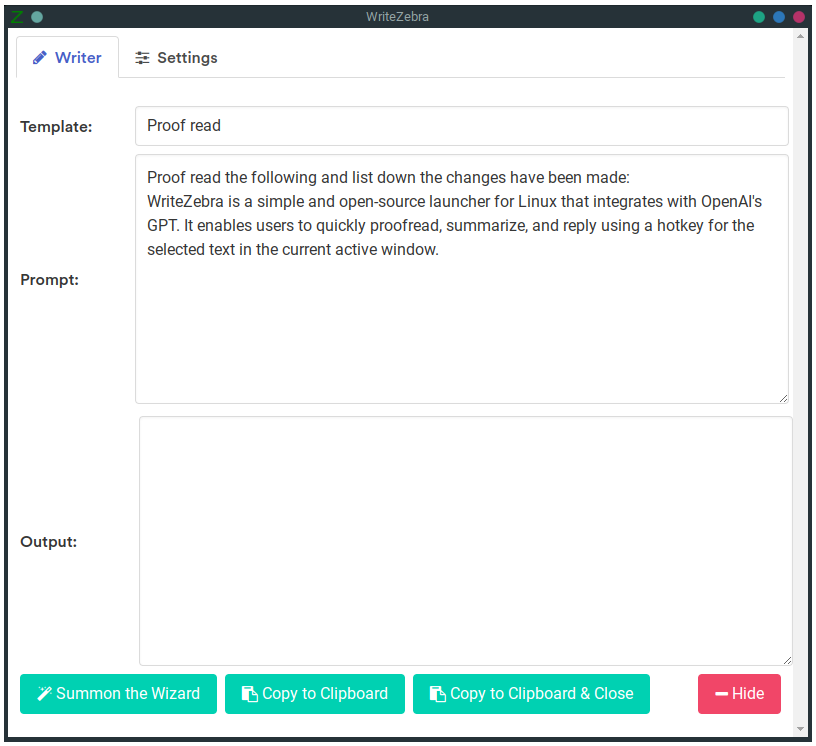
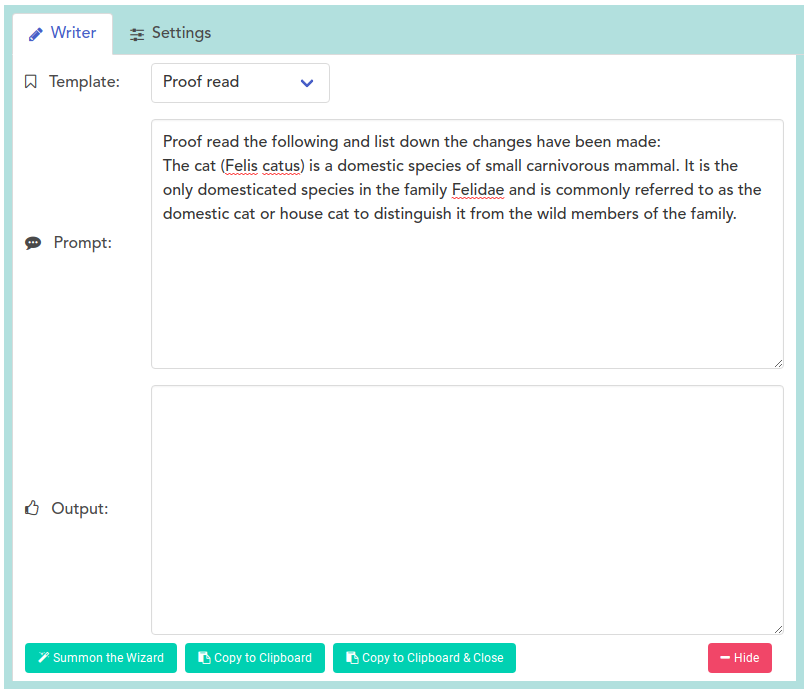
Refactor

Changed region(s): [[0.0, 0.0, 1.0, 1.0]]

diff --git a/index.html b/index.html
@@ -24,14 +24,14 @@
                 -webkit-app-region: drag;
             }
 
-            .non-draggable, input, button{
+            .non-draggable, input, textarea, button, select,.select{
                 -webkit-user-select: auto!important;
                 user-select:auto!important;                
                 -webkit-app-region: no-drag!important;
             }
 
 
-            ::-webkit-scrollbar {
+            html::-webkit-scrollbar {
                 display: none;
             }    
 
@@ -62,6 +62,7 @@
 
             .tabcontent table {
                 width: calc(100% - 20px);
+                padding-top: 10px;
             }
 
             .tabcontent td {
@@ -142,7 +143,7 @@
             </div>
 
             <div class="tabcontent-container ml-2 mr-2 pb-2 theme-background-color-contrast" >
-                <div class="tabcontent active">
+                <div class="tabcontent draggable active">
                     <table class="">
                         <tr>
                             <td class="draggable" style="width:17%">
@@ -196,7 +197,7 @@
                         </tr>
                     </table>
                 </div>
-                <div class="tabcontent">
+                <div class="tabcontent draggable">
                     <table class="">
                         <tr>
                             <td class="draggable" style="width:20%">
@@ -206,6 +207,11 @@
                             <td>
                                 <textarea class="textarea m-1 tah-400" id="txtTemplate" row="15" type="text"></textarea>
                                 <div class="pt-1 pb-2 is-size-7">Use ## to start a new template and use {{content}} for content from clipboard</div>
+                            </td>
+                        </tr>
+                        <tr>
+                            <td>
+                                <h2 class="pt-4 pl-3 is-size-5">OpenAI</h2>
                             </td>
                         </tr>
                         <tr>
@@ -223,11 +229,16 @@
                             <td><input type="text" id="txtModel" value="gpt-3.5-turbo" class="input m-1" /></td>
                         </tr>
                         <tr>
-                            <td colspan="2"  class="draggable">
-                                <button id="jkt_btnSave" class="button is-primary ml-3 is-size-7">
+                            <td colspan="2"  class="draggable pt-2 pb-2">
+                                <button style="float:left" id="btnSave" class="button is-primary ml-3 is-size-7">
                                     <i class="fa fa-floppy-o mr-1" aria-hidden="true"></i>
                                     Save
                                 </button>
+
+                                <button style="float:right" id="btnClose2" class="button is-danger ml-1 mr-1 is-size-7">
+                                    <i class="fa fa-minus mr-1" aria-hidden="true"></i>
+                                    <span>Hide </span>
+                                </button>                                
                             </td>
                         </tr>
                     </table>
@@ -240,8 +251,9 @@
             const store = new Store();
             var btnGenerate = document.getElementById('btnGenerate');
             var btnClose = document.getElementById('btnClose');
+            var btnClose2 = document.getElementById('btnClose2');
             var btnClipboard = document.getElementById('btnClipboard');
-            var btnSave = document.getElementById('jkt_btnSave');
+            var btnSave = document.getElementById('btnSave');
             var btnClipboardClose = document.getElementById('btnClipboardClose');
             var status = document.getElementById('status');
 
@@ -354,6 +366,10 @@
                 window.close();
             });
 
+            btnClose2.addEventListener('click', function () {
+                window.close();
+            });
+
             btnClipboard.addEventListener('click', function () {
                 txtOutput.select();
                 document.execCommand('copy');
@@ -369,8 +385,8 @@
             });
 
             btnSave.addEventListener('click', function () {
-                store.set('secretKey', txtSecretKey.value);
-                store.set('model', txtModel.value);
+                store.set('secretKeyOpenAI', txtSecretKey.value);
+                store.set('modelOpenAI', txtModel.value);
                 store.set('template', txtTemplate.value);
                 refreshTemplateList(txtTemplate.value);
                 showMessage("success", "Settings have been saved", 1000);
@@ -428,8 +444,8 @@
             let loadData = () => {
                 try {
                     txtTemplate.value = store.get('template') || defaultTemplate;
-                    txtSecretKey.value = store.get('secretKey') || "";
-                    txtModel.value = store.get('model') || "gpt-3.5-turbo";
+                    txtSecretKey.value = store.get('secretKeyOpenAI') || "";
+                    txtModel.value = store.get('modelOpenAI') || "gpt-3.5-turbo";
                     refreshTemplateList(txtTemplate.value);
                     txtPrompt.value = templates[0].content.replace("{{content}}", selectedText);
                 } catch (ex) {

diff --git a/readme.md b/readme.md
@@ -2,10 +2,10 @@
 WriteZebra is a simple and open-source launcher for Linux that integrates with OpenAI's GPT. It enables users to quickly proofread, summarize, and reply using a hotkey for the selected text in the current active window.
 
 Features:
-- Unlike Chrome plug-ins, WriteZebra works across all apps, such as browsers and mail clients.
-- Customizable templates for proofreading, summarizing, and rewriting emails, among other things.
 - Auto-copies the selected text.
 - Activated by a keyboard shortcut (Ctrl-Shift-K).
+- Unlike Chrome plug-ins, WriteZebra works across all apps, such as browsers and mail clients.
+- Customizable templates for proofreading, summarizing, and rewriting emails, among other things.
 - Runs on Linux and Windows (coming soon).
 
 ![Alt text](screenshot.png)
